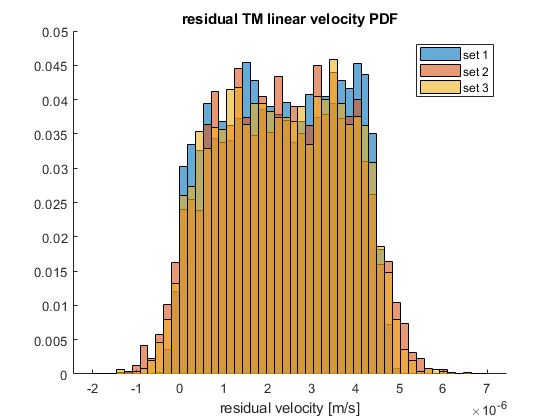
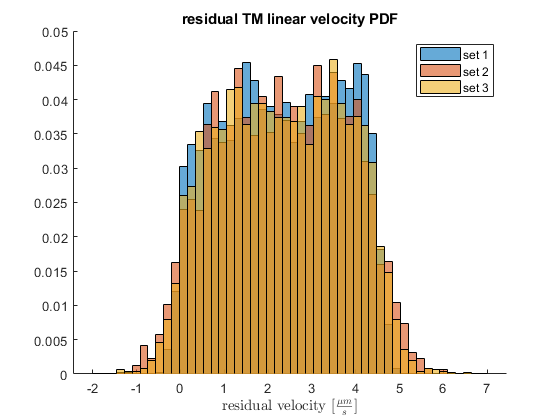
some enhancements

Changed region(s): [[0.3946, 0.9286, 0.6679, 0.9905], [0.85, 0.9595, 0.9107, 0.9905], [0.0607, 0.4643, 0.1214, 0.4952]]

diff --git a/main.m b/main.m
@@ -42,21 +42,21 @@ end
 %set 1
 l = linspace(0,3,100);
 figure
-plot(l*1e-6,X_adh(1,1)*l.*exp(-X_adh(1,2)*l.^(X_adh(1,3))),'r',set(1).exp(1).el*1e-6,set(1).exp(1).F,'.r',set(1).exp(2).el*1e-6,set(1).exp(2).F,'.r'...
-    ,set(1).exp(3).el*1e-6,set(1).exp(3).F,'.r',set(1).exp(4).el*1e-6,set(1).exp(4).F,'.r',set(1).exp(5).el*1e-6,set(1).exp(5).F,'.r')
+plot(l,X_adh(1,1)*l.*exp(-X_adh(1,2)*l.^(X_adh(1,3))),'r',set(1).exp(1).el,set(1).exp(1).F,'.r',set(1).exp(2).el,set(1).exp(2).F,'.r'...
+    ,set(1).exp(3).el,set(1).exp(3).F,'.r',set(1).exp(4).el,set(1).exp(4).F,'.r',set(1).exp(5).el,set(1).exp(5).F,'.r')
 grid on
 hold on
 %set 2
-plot(l*1e-6,X_adh(2,1)*l.*exp(-X_adh(2,2)*l.^(X_adh(2,3))),'g',set(2).exp(1).el*1e-6,set(2).exp(1).F,'.g',set(2).exp(2).el*1e-6,set(2).exp(2).F,'.g'...
-    ,set(2).exp(3).el*1e-6,set(2).exp(3).F,'.g',set(2).exp(4).el*1e-6,set(2).exp(4).F,'.g',set(2).exp(5).el*1e-6,set(2).exp(5).F,'.g')
+plot(l,X_adh(2,1)*l.*exp(-X_adh(2,2)*l.^(X_adh(2,3))),'g',set(2).exp(1).el,set(2).exp(1).F,'.g',set(2).exp(2).el,set(2).exp(2).F,'.g'...
+    ,set(2).exp(3).el,set(2).exp(3).F,'.g',set(2).exp(4).el,set(2).exp(4).F,'.g',set(2).exp(5).el,set(2).exp(5).F,'.g')
 %set 3
-plot(l*1e-6,X_adh(3,1)*l.*exp(-X_adh(3,2)*l.^(X_adh(3,3))),'b',set(3).exp(1).el*1e-6,set(3).exp(1).F,'.b',set(3).exp(2).el*1e-6,set(3).exp(2).F,'.b'...
-    ,set(3).exp(3).el*1e-6,set(3).exp(3).F,'.b',set(3).exp(4).el*1e-6,set(3).exp(4).F,'.b',set(3).exp(5).el*1e-6,set(3).exp(5).F,'.b')
+plot(l,X_adh(3,1)*l.*exp(-X_adh(3,2)*l.^(X_adh(3,3))),'b',set(3).exp(1).el,set(3).exp(1).F,'.b',set(3).exp(2).el,set(3).exp(2).F,'.b'...
+    ,set(3).exp(3).el,set(3).exp(3).F,'.b',set(3).exp(4).el,set(3).exp(4).F,'.b',set(3).exp(5).el,set(3).exp(5).F,'.b')
 grid on
 title('Experimental and fitted data')
-xlabel('Elongation [m]')
+xlabel('$\Delta l [\mu m]$','interpreter','latex')
 ylabel('Force [N]')
-axis([0 3e-6 0 0.16]);
+axis([0 3 0 0.16]);
 
 %% identification
 % define system to identify
@@ -119,11 +119,11 @@ res = y_i - y_exp;               %model error w.r.t. experiment
 s_y = res*res'/length(res);      %variance of the residual 
 y_rms = sqrt(s_y);               %r.m.s. error
 subplot(2,1,2)
-plot(t_i,res)
+plot(t_i,res*1e6)
 grid on
 title('residuals')
-xlabel('Time (seconds)')
-ylabel('residual value [m]')
+xlabel('Time [s]','interpreter','latex')
+ylabel('residual value [$\mu m$]','interpreter','latex')
 r = diag(1./((res.^2)));
 
 % stability analysis
@@ -271,20 +271,20 @@ close(h)
 % statistical analysis
 figure
 hold on
-h1 = histogram(V_res(1,:),'Normalization','Probability','NumBins',50,'BinLimits',[-2e-6,7e-6]);
-h2 = histogram(V_res(2,:),'Normalization','Probability','NumBins',50,'BinLimits',[-2e-6,7e-6]);
-h3 = histogram(V_res(3,:),'Normalization','Probability','NumBins',50,'BinLimits',[-2e-6,7e-6]);
+h1 = histogram(V_res(1,:)*1e6,'Normalization','Probability','NumBins',50,'BinLimits',[-2,7]);
+h2 = histogram(V_res(2,:)*1e6,'Normalization','Probability','NumBins',50,'BinLimits',[-2,7]);
+h3 = histogram(V_res(3,:)*1e6,'Normalization','Probability','NumBins',50,'BinLimits',[-2,7]);
 title('residual TM linear velocity PDF')
-xlabel('residual velocity [m/s]')
+xlabel('residual velocity [$\frac{\mu m}{s}$]','interpreter','latex')
 legend('set 1','set 2','set 3')
 
 figure
 hold on
-k1 = histogram(abs(W_res(1,:)),'Normalization','Probability','NumBins',50,'BinLimits',[0, 3e-6]);
-k2 = histogram(abs(W_res(2,:)),'Normalization','Probability','NumBins',50,'BinLimits',[0, 3e-6]);
-k3 = histogram(abs(W_res(3,:)),'Normalization','Probability','NumBins',50,'BinLimits',[0, 3e-6]);
+k1 = histogram(abs(W_res(1,:)*1e6),'Normalization','Probability','NumBins',50,'BinLimits',[0, 3]);
+k2 = histogram(abs(W_res(2,:)*1e6),'Normalization','Probability','NumBins',50,'BinLimits',[0, 3]);
+k3 = histogram(abs(W_res(3,:))*1e6,'Normalization','Probability','NumBins',50,'BinLimits',[0, 3]);
 title('residual TM angular velocity PDF')
-xlabel('residual angular velocity [rad/s]')
+xlabel('residual angular velocity [$\frac{\mu rad}{s}$]','interpreter','latex')
 legend('set 1','set 2','set 3')
 % compute 3 sigma residual velocity
 V_res_3s = zeros(3,1);
@@ -340,6 +340,11 @@ while K<0.997 && i<n
 end
 W_res_3s(3) = k3.BinEdges(i-1);         %3 sigma residual angular velocity
 
+%print residual quantities
+fprintf('\nparameters estimation simulation results: \t set 1  \t set 2  \t set 3  \n')
+fprintf(['3',char(963),'  residual linear velocity   [',char(956),'m/s]: \t %f \t %f \t %f \n'],V_res_3s(1),V_res_3s(2),V_res_3s(3))
+fprintf(['3',char(963),' residual angular velocity [',char(956),'rad/s]: \t %f \t %f \t %f \n'],W_res_3s(1),W_res_3s(2),W_res_3s(3))
+
 %% Simulation with noise evaluation
 % weighting filter characterization
 C_rr= conv(res, res);
@@ -350,8 +355,8 @@ figure
 fr = linspace(1,5e5,length(PSD));
 loglog(fr,real(PSD))
 title('post-fit residuals PSD')
-xlabel('Freq. [Hz]')
-ylabel('PSD [m/sqrt(Hz)]')
+xlabel('Frequency [Hz]','interpreter','latex')
+ylabel('PSD [$m/\sqrt{Hz}$]','interpreter','latex')
 grid on
 
 % System FRF
@@ -393,10 +398,10 @@ xlabel('frequency [Hz]')
 %residual in time domain
 X = ifft([x,x(end:-1:1)],'symmetric');
 figure
-plot(linspace(0,4e-4,length(X)),abs(X))
+plot(linspace(0,4e-4,length(X)),abs(X)*1e6)
 title('simulated residual in time domain')
 xlabel('t [s]')
-ylabel('res [m]')
+ylabel('res [$\mu m$]','interpreter','latex')
 
 % noise force in time domain
 f_n = ifft([F_n,F_n(end:-1:1)],'symmetric');        %force as function of time
@@ -450,11 +455,11 @@ plot(t_s,x_s(:,8))
 % statistical analysis: plot PDF and compute 3 sigma residual velocity
 figure
 hold on
-hn_1 = histogram(V_res_noise(1,:),'Normalization','Probability','NumBins',50,'BinLimits',[-1e-6,7e-6]);
-hn_2 = histogram(V_res_noise(2,:),'Normalization','Probability','NumBins',50,'BinLimits',[-1e-6,7e-6]);
-hn_3 = histogram(V_res_noise(3,:),'Normalization','Probability','NumBins',50,'BinLimits',[-1e-6,7e-6]);
+hn_1 = histogram(V_res_noise(1,:)*1e6,'Normalization','Probability','NumBins',50,'BinLimits',[-1,7]);
+hn_2 = histogram(V_res_noise(2,:)*1e6,'Normalization','Probability','NumBins',50,'BinLimits',[-1,7]);
+hn_3 = histogram(V_res_noise(3,:)*1e6,'Normalization','Probability','NumBins',50,'BinLimits',[-1,7]);
 title('residual TM velocity PDF (through noise filtering)')
-xlabel('residual velocity [m/s]')
+xlabel('residual velocity [$\mu m/s]$','interpreter','latex')
 legend('set 1','set 3','set 3')
 
 % 3 sigma quantities
@@ -490,11 +495,11 @@ V_res_noise_3s(3) = hn_3.BinEdges(i-1);         %3 sigma residual linear velocit
 % angular velocity
 figure
 hold on
-kn_1 = histogram(W_res_noise(1,:),'Normalization','Probability','NumBins',50,'BinLimits',[-3e-6,3e-6]);
-kn_2 = histogram(W_res_noise(2,:),'Normalization','Probability','NumBins',50,'BinLimits',[-3e-6,3e-6]);
-kn_3 = histogram(W_res_noise(3,:),'Normalization','Probability','NumBins',50,'BinLimits',[-3e-6,3e-6]);
+kn_1 = histogram(abs(W_res_noise(1,:))*1e6,'Normalization','Probability','NumBins',50,'BinLimits',[0,3]);
+kn_2 = histogram(abs(W_res_noise(2,:))*1e6,'Normalization','Probability','NumBins',50,'BinLimits',[0,3]);
+kn_3 = histogram(abs(W_res_noise(3,:))*1e6,'Normalization','Probability','NumBins',50,'BinLimits',[0,3]);
 title('residual TM angular velocity PDF (through noise filtering)')
-xlabel('residual angular velocity [rad/s]')
+xlabel('residual angular velocity [$\mu rad/s$]','interpreter','latex')
 legend('set 1','set 3','set 3')
 
 % set 1
@@ -523,6 +528,11 @@ while K<0.997 && i<length(kn_3.Values)
     i = i + 1;
 end
 W_res_noise_3s(3) = kn_3.BinEdges(i-1);         %3 sigma residual angular velocity
+
+%print residual quantities
+fprintf('noise filtering simulation results: \t  set 1  \t  set 2  \t   set3 \n')
+fprintf(['3',char(963),'  residual linear velocity [',char(956),'m/s]: \t %f \t %f \t %f \n'],V_res_noise_3s(1),V_res_noise_3s(2),V_res_noise_3s(3))
+fprintf(['3',char(963),' residual angular velocity [',char(956),'rad/s]: \t %f \t %f \t %f \n'],W_res_noise_3s(1),W_res_noise_3s(2),W_res_noise_3s(3))
 
 %% sensitivity tests
 V_res_test = zeros(3,n);
@@ -556,9 +566,9 @@ end
 close(h)
 figure
 hold on
-l2 = histogram(V_res_test(3,:),'Normalization','Probability','NumBins',50,'BinLimits',[-1e-6,10e-6]);
-l  = histogram(V_res_test(1,:),'Normalization','Probability','NumBins',50,'BinLimits',[-1e-6,10e-6]);
-l1 = histogram(V_res_test(2,:),'Normalization','Probability','NumBins',50,'BinLimits',[-1e-6,10e-6]);
+l2 = histogram(V_res_test(3,:)*1e6,'Normalization','Probability','NumBins',70,'BinLimits',[-1,10]);
+l  = histogram(V_res_test(1,:)*1e6,'Normalization','Probability','NumBins',70,'BinLimits',[-1,10]);
+l1 = histogram(V_res_test(2,:)*1e6,'Normalization','Probability','NumBins',70,'BinLimits',[-1,10]);
 title('residual TM linear velocity PDF with different max time lag')
-xlabel('residual linear velocity [m/s]')
-legend('15e-6 [s]','30e-6 [s]','60e-6 [s]')
+xlabel('residual linear velocity [$\mu m/s$]','interpreter','latex')
+legend('15 \mus','30 \mus','60 \mus')

diff --git a/ignore.m b/ignore.m
@@ -1,0 +1,19 @@
+l=linspace(-1e-3,3e-3,100);
+F=zeros(size(l));
+for i=1:100
+    if l(i)<0
+        F(i)=0.3;
+    else
+        F(i)=-0.3*1e3*l(i)+0.3;
+    end
+    if F(i)<0
+        F(i)=0;
+    end
+end
+figure
+plot(l,F)
+axis([-1e-3 3e-3 0 0.4])
+title('Pushing force vs. elongation model')
+xlabel('$\Delta l [\mu m/s]$','interpreter','latex')
+ylabel('Force [N]')
+grid on
